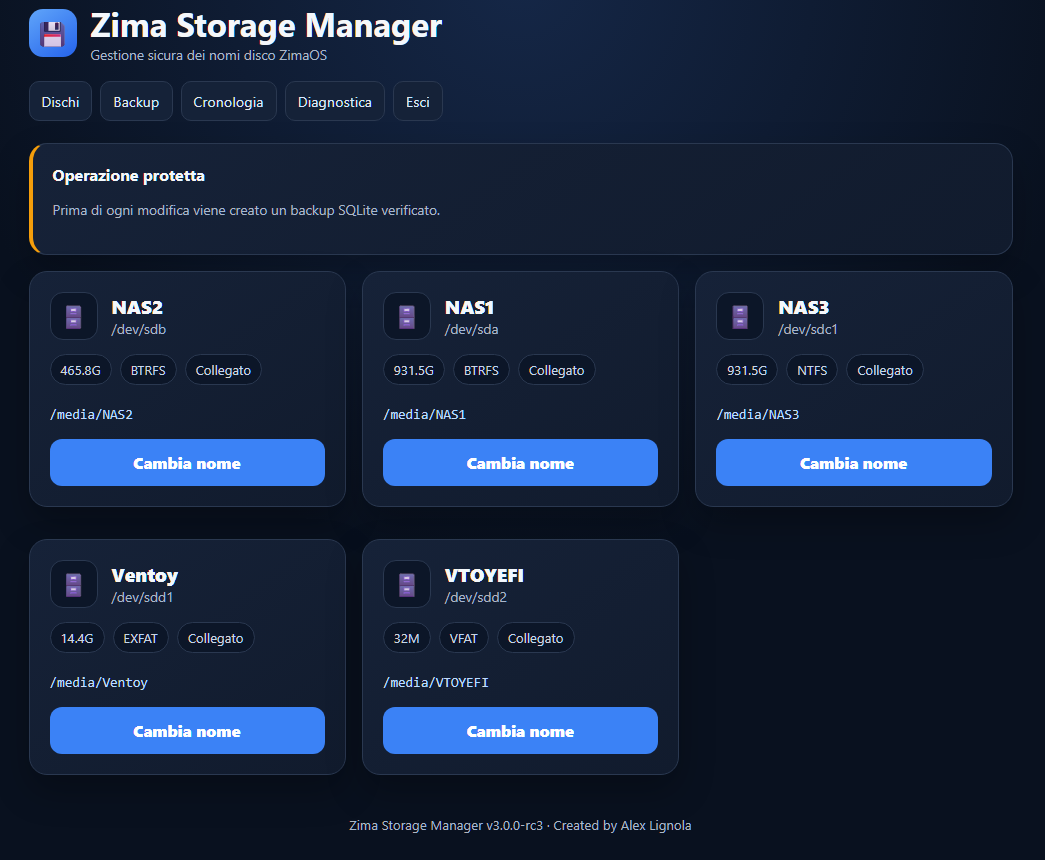
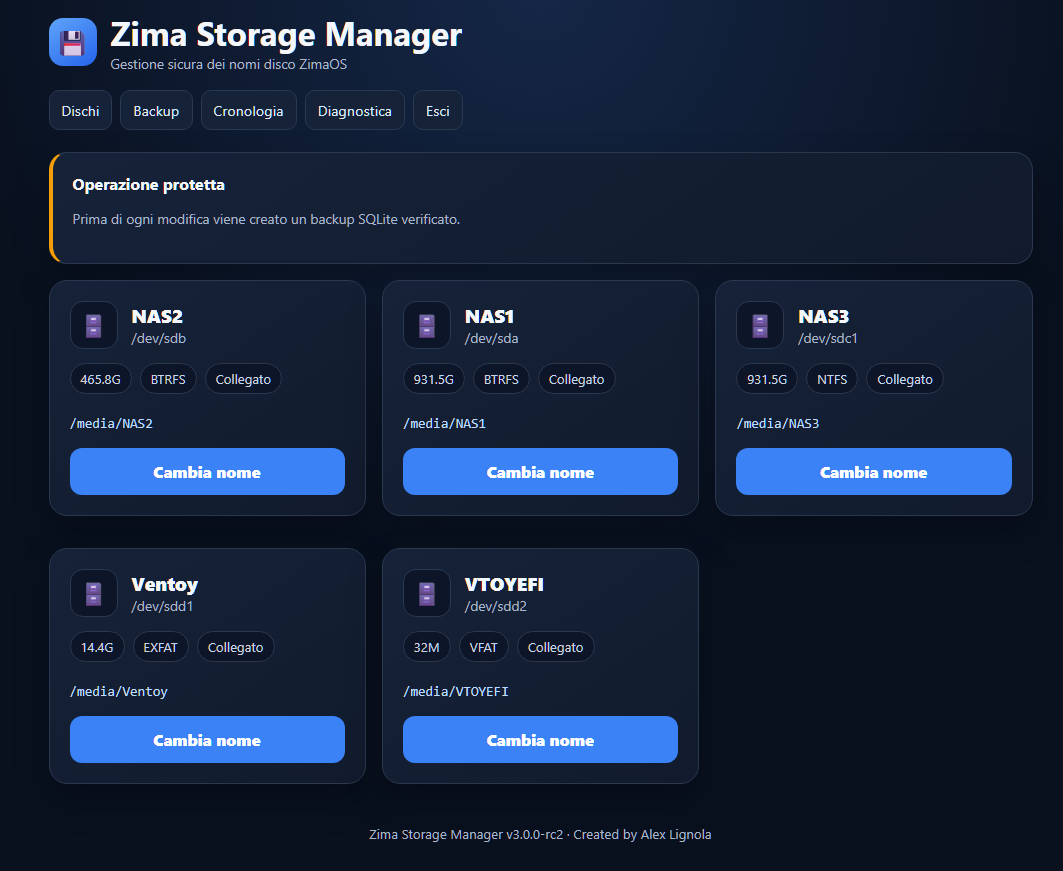
Release Zima Storage Manager v3.0.0-rc4

diff --git a/zsm/__init__.py b/zsm/__init__.py
@@ -1,1 +1,1 @@
-__version__ = "3.0.0-rc3"
+__version__ = "3.0.0-rc4"

diff --git a/README.md b/README.md
@@ -1,45 +1,121 @@
 # Zima Storage Manager
 
-Interfaccia web per gestire in modo sicuro i nomi dei dischi e i punti di montaggio utilizzati da ZimaOS.
+Una semplice interfaccia web per cambiare il **nome del punto di montaggio usato da ZimaOS**.
 
-![Versione](https://img.shields.io/badge/version-v3.0.0--rc3-blue)
-![ZimaOS](https://img.shields.io/badge/ZimaOS-1.6.2-blue)
-![Docker](https://img.shields.io/badge/Docker-amd64%20%7C%20arm64-blue)
-![License](https://img.shields.io/badge/license-BSD--3--Clause-green)
+> ZSM non cambia l'etichetta interna BTRFS/EXT4 del filesystem. Cambia il nome con cui ZimaOS registra e monta il disco, per esempio da `NAS2` a `NAS3`.
 
-## Anteprima
+## Installazione con un solo comando
 
-![Zima Storage Manager su ZimaOS](img/zima-storage-manager-dashboard.png)
+Apri il terminale SSH di ZimaOS e incolla:
 
-> Zima Storage Manager non modifica necessariamente l'etichetta interna del filesystem.  
-> Modifica il nome con cui ZimaOS registra e monta il disco, mantenendo il percorso coerente nel database Local Storage.
+```bash
+curl -fsSL https://raw.githubusercontent.com/AngoloInformatico/zima-storage-manager/main/install.sh | sudo bash
+```
 
-## Funzioni principali
+Se `curl` non è disponibile:
 
-- rilevamento automatico dei dischi registrati in ZimaOS;
-- rinomina dei dischi e dei relativi punti di montaggio;
-- mantenimento e aggiornamento dei percorsi nel database;
-- backup automatico prima di ogni modifica;
-- creazione di backup manuali;
-- ripristino del database;
-- verifica dell'integrità SQLite;
-- cronologia delle operazioni;
-- autenticazione web;
-- protezione CSRF;
-- conferma delle operazioni critiche;
-- pagina di diagnostica;
-- rilevamento automatico del servizio Local Storage;
-- supporto installazione nativa con systemd;
-- supporto Docker e ZimaOS App Store;
-- immagini container per `amd64` e `arm64`;
-- aggiornamenti automatici tramite GitHub Actions.
+```bash
+wget -qO- https://raw.githubusercontent.com/AngoloInformatico/zima-storage-manager/main/install.sh | sudo bash
+```
 
-## Compatibilità verificata
+Alla fine dell'installazione compariranno l'indirizzo dell'app e il codice di accesso.
 
-La release candidate `v3.0.0-rc3` è stata provata su:
+## Utilizzo
 
-```text
-ZimaOS 1.6.2
-Database: /var/lib/casaos/db/local-storage.db
-Servizio: zimaos-local-storage.service
-Architettura: amd64
+1. Apri dal browser l'indirizzo mostrato dall'installer.
+2. Inserisci il codice di accesso.
+3. Scegli il disco dalla schermata.
+4. Premi **Cambia nome**.
+5. Scrivi il nuovo nome.
+6. Conferma.
+
+Non è necessario conoscere UUID, SQLite, Python o comandi Linux.
+
+## Sicurezza
+
+Prima di ogni modifica ZSM:
+
+- crea una copia di sicurezza del database;
+- ferma temporaneamente il servizio di archiviazione;
+- verifica la modifica;
+- ripristina il database in caso di errore.
+
+Il servizio è protetto da un codice di accesso generato durante l'installazione. Non esporre la porta `8787` direttamente su Internet.
+
+Per rivedere il codice:
+
+```bash
+sudo grep ZSM_PASSWORD /etc/zsm/zsm.env
+```
+
+## Aggiornamento
+
+```bash
+sudo zsm-update
+```
+
+## Stato del servizio
+
+```bash
+sudo systemctl status zima-storage-manager
+```
+
+## Disinstallazione
+
+Dal repository:
+
+```bash
+sudo bash uninstall.sh
+```
+
+Backup e configurazione non vengono cancellati automaticamente.
+
+## Requisiti
+
+- ZimaOS con `systemd`
+- Python 3.10 o successivo
+- modulo `python3-venv`
+- `curl` oppure `wget`
+
+## Nota importante
+
+Il progetto interviene sul database di archiviazione di ZimaOS. Usalo solo dopo aver verificato che il percorso configurato in `/etc/zsm/config.json` corrisponda alla tua versione di ZimaOS.
+
+## Pacchetto Docker sperimentale
+
+È incluso anche un `Dockerfile` con `docker-compose.yml`. Tuttavia ZSM deve modificare il database dell'host e controllare un servizio systemd dell'host; per questo il contenitore richiede privilegi elevati, `pid: host` e bind mount delle directory ZimaOS.
+
+La modalità Docker è quindi disponibile per test e futura integrazione nello store, ma **l'installazione nativa tramite systemd resta quella consigliata**.
+
+Istruzioni complete: [`docs/DOCKER.md`](docs/DOCKER.md).
+
+## Verifiche della release candidate 3.0.0-rc4
+
+- compilazione dei moduli Python;
+- installazione del pacchetto in ambiente virtuale pulito;
+- suite automatica: 18 test superati;
+- verifica dei file Docker e Compose a livello statico.
+
+Il test finale sul server ZimaOS reale è comunque necessario, perché versioni diverse di ZimaOS possono usare percorsi del database o nomi del servizio differenti.
+
+## Dati persistenti del container
+
+La configurazione RC4 conserva i dati anche quando il container viene ricreato:
+
+- backup: `/DATA/AppData/zima-storage-manager/backups`;
+- report: `/DATA/AppData/zima-storage-manager/reports`;
+- log e cronologia: `/DATA/AppData/zima-storage-manager/logs`.
+
+## Docker e GitHub Container Registry
+
+Le immagini dei tag di release vengono pubblicate automaticamente per `linux/amd64` e `linux/arm64` su GitHub Container Registry. La configurazione completa è descritta in `docs/DOCKER.md`.
+
+
+## Funzioni Web v3 RC1
+
+La Web UI include gestione dischi, backup manuali, ripristino con doppia conferma, cronologia e pagina diagnostica. Tutte le azioni di scrittura richiedono autenticazione, token CSRF e una conferma monouso con scadenza. I backup più vecchi vengono rimossi automaticamente secondo `backup_retention` (25 per impostazione predefinita).
+
+
+## Installazione come app ZimaOS
+
+La release RC4 include un `docker-compose.yml` con metadati `x-casaos`, supporto amd64/arm64, persistenza dei backup e rilevamento automatico del servizio Local Storage. Consulta [docs/ZIMAOS_APPSTORE.md](docs/ZIMAOS_APPSTORE.md).

diff --git a/CHANGELOG.md b/CHANGELOG.md
@@ -1,5 +1,14 @@
 # Changelog
 
+## v3.0.0-rc4 - 2026-07-19
+
+- Resi persistenti i backup tramite `/DATA/AppData/zima-storage-manager/backups`.
+- Resi persistenti i report tramite `/DATA/AppData/zima-storage-manager/reports`.
+- Resi persistenti log e cronologia tramite `/DATA/AppData/zima-storage-manager/logs`.
+- Aggiornato il Compose per l'importazione nell'App Store di ZimaOS.
+- Aggiornato il riferimento dell'icona al ramo principale `main`.
+
+
 ## 3.0.0-rc3
 
 - aggiunta installazione come app personalizzata ZimaOS tramite Docker Compose e metadati `x-casaos`;

diff --git a/docs/ZIMAOS_APPSTORE.md b/docs/ZIMAOS_APPSTORE.md
@@ -3,7 +3,7 @@
 ## Immagine
 
 - Immagine Docker: `ghcr.io/angoloinformatico/zima-storage-manager`
-- Tag: `v3.0.0-rc3`
+- Tag: `v3.0.0-rc4`
 - Titolo: `Zima Storage Manager`
 - Web UI: `http://IP_ZIMAOS:8787/`
 - Rete: `bridge`